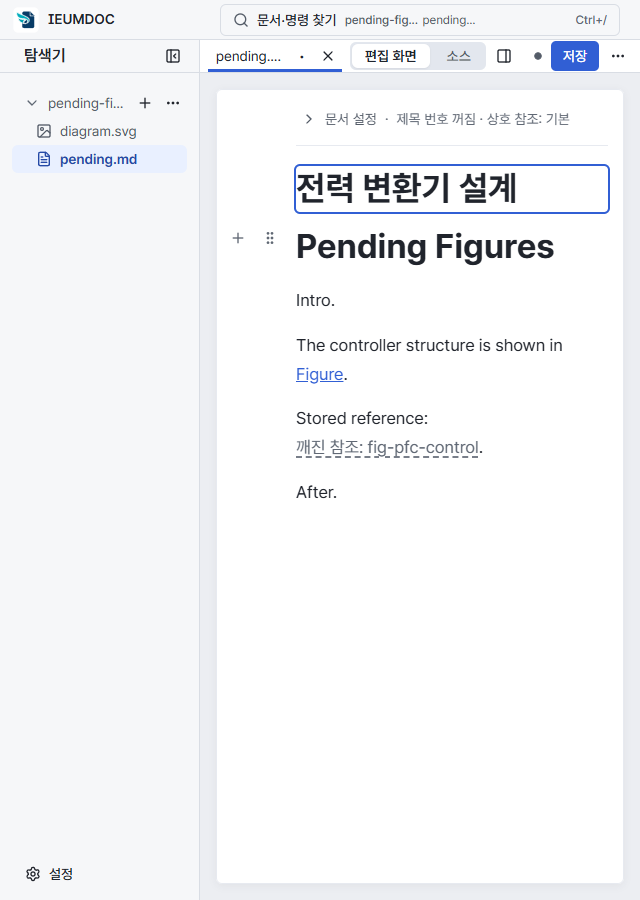
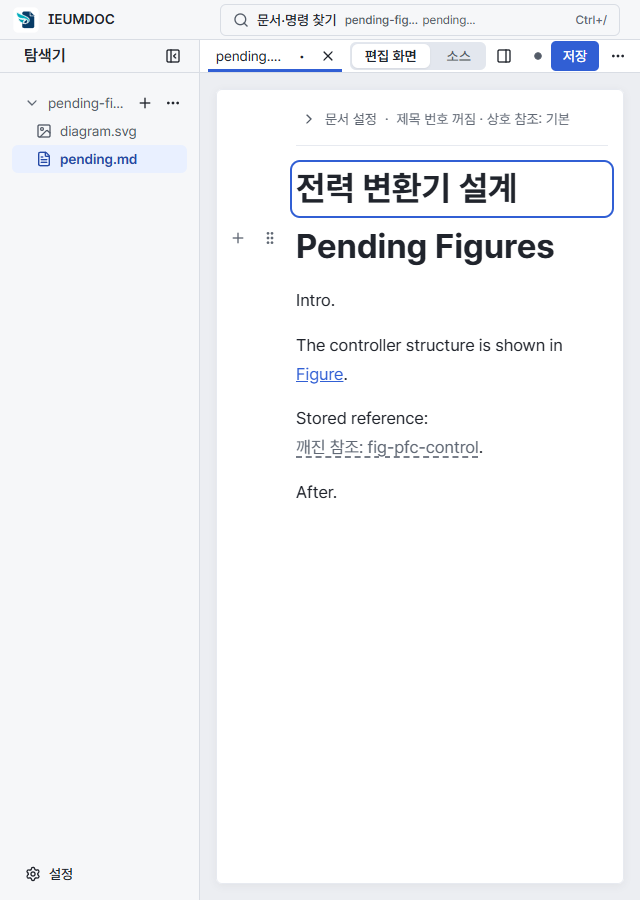
fix(editor): center the optional title hint within its slot
Keep the small hint centered in the existing title slot and offset the focus
outline to leave clearance around both empty hints and entered titles.
Assert hint alignment and unchanged field/body geometry across focus and input.
Refresh the nine affected After captures and their measurements.

AI-Agent: Codex
AI-Model: openai/gpt-6.1-sol

Changed region(s): [[0.4375, 0.1556, 0.9688, 0.2489]]

diff --git a/apps/editor/test/document-title.browser.js b/apps/editor/test/document-title.browser.js
@@ -36,6 +36,33 @@ async (page, { openPath, reloadDocument, expect, screenshots, waitForEditorFocus
     font:getComputedStyle(n).fontSize, placeholderFont:getComputedStyle(n,'::placeholder').fontSize }));
   const emptyStyle = await titleStyle();
   expect(parseFloat(emptyStyle.placeholderFont)).toBeLessThan(parseFloat(emptyStyle.font));
+  const titleGeometry = () => title.evaluate(n => {
+    const box = n.getBoundingClientRect(), style = getComputedStyle(n), hint = getComputedStyle(n,'::placeholder');
+    const h1 = n.closest('[data-document-tab]').querySelector('.document-editor h1').getBoundingClientRect();
+    const hintCenter = box.top + parseFloat(style.borderTopWidth) + parseFloat(style.paddingTop) + parseFloat(hint.lineHeight) / 2;
+    return {box:{x:box.x,y:box.y,width:box.width,height:box.height}, bodyTop:h1.top,
+      hintCenterOffset:hintCenter - (box.top + box.height / 2),
+      focusGap:parseFloat(style.outlineOffset) + parseFloat(style.paddingLeft)};
+  });
+  for (const width of [1440,640]) {
+    await page.setViewportSize({width,height:900});
+    await title.evaluate(n => n.blur());
+    const unfocused = await titleGeometry();
+    expect(Math.abs(unfocused.hintCenterOffset)).toBeLessThan(0.1);
+    await title.focus();
+    const focused = await titleGeometry();
+    expect(focused.box).toEqual(unfocused.box);
+    expect(focused.bodyTop).toBe(unfocused.bodyTop);
+    expect(focused.focusGap).toBeGreaterThan(0);
+    await title.fill('Title');
+    const typing = await titleGeometry();
+    expect(typing.box).toEqual(unfocused.box);
+    expect(typing.bodyTop).toBe(unfocused.bodyTop);
+    expect(typing.focusGap).toBeGreaterThan(0);
+    await title.fill('');
+    expect(Math.abs((await titleGeometry()).hintCenterOffset)).toBeLessThan(0.1);
+  }
+  await page.setViewportSize({width:1440,height:900});
   await title.fill('Optional document title');
   expect((await titleStyle()).height).toBe(emptyStyle.height);
   expect(await title.evaluate(n => n.matches(':placeholder-shown'))).toBe(false);

diff --git a/docs/design/assets/empty-entry-786/manual-capture.browser.js b/docs/design/assets/empty-entry-786/manual-capture.browser.js
@@ -23,7 +23,13 @@ async (page, { openPath, expect }) => {
       await page.evaluate(async () => { await document.fonts.ready; });
       await page.mouse.move(0,0);
       await page.screenshot({path:`docs/design/assets/empty-entry-786/${phase}-${width}-${theme}-${language}-${state}.png`,animations:'disabled'});
-      measurements.push({width,theme,language,state,...await title.evaluate(n => ({height:n.getBoundingClientRect().height,font:getComputedStyle(n).fontSize,placeholderFont:getComputedStyle(n,'::placeholder').fontSize}))});
+      measurements.push({width,theme,language,state,...await title.evaluate(n => {
+        const box = n.getBoundingClientRect(), style = getComputedStyle(n), hint = getComputedStyle(n,'::placeholder');
+        return {height:box.height,font:style.fontSize,placeholderFont:hint.fontSize,
+          placeholderLineHeight:hint.lineHeight,
+          hintCenterOffset:parseFloat(style.borderTopWidth) + parseFloat(style.paddingTop) + parseFloat(hint.lineHeight) / 2 - box.height / 2,
+          focused:n === document.activeElement,focusOutlineOffset:style.outlineOffset};
+      })});
     };
     await expect(title).toHaveValue('');
     await capture('empty-title');

diff --git a/apps/editor/src/styles.css b/apps/editor/src/styles.css
@@ -1329,13 +1329,21 @@ body:has(.ui-portal [role="menu"]) :is(.app-titlebar, .top-bar, .settings-topbar
   line-height: var(--line-height-document-heading);
   overflow-wrap: anywhere;
 }
+.document-title-input:placeholder-shown {
+  /* Keep the original slot despite different intrinsic rounding for the small hint. */
+  height: calc(var(--font-size-document-h1) * var(--line-height-document-heading));
+}
 .document-title-input::placeholder {
   color: var(--id-color-text-subtle);
   font-family: var(--font-family-sans);
   font-size: var(--font-size-sm);
   font-weight: 400;
+  line-height: calc(var(--font-size-document-h1) * var(--line-height-document-heading));
 }
-.document-title-input:focus-visible { outline: none; box-shadow: var(--focus-ring); }
+.document-title-input:focus-visible {
+  outline: 2px solid var(--id-color-border-focus);
+  outline-offset: var(--space-1);
+}
 
 .heading {
   margin: var(--space-document-heading-before) 0 var(--space-document-heading-after);

diff --git a/docs/design/figure-authoring-v1.md b/docs/design/figure-authoring-v1.md
@@ -266,6 +266,14 @@ evidence, separate from automated behavior assertions. The [manual capture scrip
 records these states through the repository runner; [metadata and SHA-256 hashes](assets/empty-entry-786/capture-metadata.json)
 identify the PNGs. Before UI is master `ceead74c`.
 
+After review, the small hint is vertically centered in the unchanged slot. Centering gives
+the optional UI prompt its own resting position rather than tying it to the much larger
+title baseline. Focus uses a `--space-1` outward outline offset around both hint and entered
+title; it adds visible clearance without changing text alignment or layout. The title browser
+regression compares hint/slot centers and exact field/body geometry before focus, after focus,
+while typing and after clearing at 1440px and 640px. Only the nine affected After captures
+were refreshed; the original Before captures remain unchanged.
+
 | View | Before: empty / typing / Figure | After: empty / typing / Figure |
 | --- | --- | --- |
 | 1440 Light EN | [Empty](assets/empty-entry-786/before-1440-light-en-empty-title.png) · [Typing](assets/empty-entry-786/before-1440-light-en-typing-title.png) · [Figure](assets/empty-entry-786/before-1440-light-en-pending-figure.png) | [Empty](assets/empty-entry-786/after-1440-light-en-empty-title.png) · [Typing](assets/empty-entry-786/after-1440-light-en-typing-title.png) · [Figure](assets/empty-entry-786/after-1440-light-en-pending-figure.png) |

diff --git a/docs/design/document-editing-v1.md b/docs/design/document-editing-v1.md
@@ -436,9 +436,11 @@ dry-run and `apply-batch` (`text` or `remove: true`). `inspect` displays the tit
 separately from body nodes (JSON `title: null` means absent).
 
 Editor keeps the title input above the body, preserving its one-line title slot height
-when empty (#786). The empty placeholder is small UI text: `Add a title (optional)` /
+when empty (#786). The empty placeholder is vertically centered small UI text: `Add a title (optional)` /
 `제목 추가(선택)`. Input uses the document font/H1 size immediately; clearing it restores
-the small hint. Both are plain text only. Its value is a
+the small hint. The focus outline sits outside the slot with the existing spacing token,
+leaving visible room around both hint and title without moving the input or body. Both are
+plain text only. Its value is a
 ProseMirror document attribute in the same state/history as body edits. It does
 not create an editor body block or snapshot path, and does not appear in
 Outline. Ctrl+Z/Ctrl+Y/Ctrl+Shift+Z use engine history while the input is focused.

diff --git a/docs/design/editor-visual-language-v1.md b/docs/design/editor-visual-language-v1.md
@@ -76,7 +76,7 @@ Pretendard `1.3.9` is bundled through its official variable dynamic-subset CSS; 
 | --- | --- |
 | Body, including callout prose | 17/28.9px, 400, document stack |
 | H1–H6 | 34/45.9, 24/32.4, 20/27, 18/24.3, 16/21.6, 14/18.9px, document stack, 700 |
-| Frontmatter title | H1 type while typing; empty `Add a title (optional)` / `제목 추가(선택)` uses subtle 14px normal UI type within the same title slot; no box at rest (#786) |
+| Frontmatter title | H1 type while typing; empty `Add a title (optional)` / `제목 추가(선택)` uses subtle 14px normal UI type centered vertically within the same title slot; outward focus outline leaves breathing room without changing layout; no box at rest (#786) |
 | UI labels/controls and Figure/Table captions | 14/20px, UI stack |
 | Metadata/status/helpers | 12/16px, UI stack |
 | Dialog title / start or Settings title | 16px semibold / 24px semibold UI type |

diff --git a/docs/design/editor-layout-rules-v1.md b/docs/design/editor-layout-rules-v1.md
@@ -41,6 +41,12 @@ Role: alignment, spacing, control dimensions and deliberate geometry exceptions;
 
 ## Alignment and ownership
 
+- Frontmatter title (#786) keeps the existing H1-line-height minimum slot. The small empty
+  hint's line box matches that slot and centers vertically; empty-state height is explicit
+  to prevent a fractional intrinsic-size shift when typing begins. The title focus outline
+  uses `--space-1` outward offset for visible inner clearance without adding padding,
+  resizing the field or moving the following body. This also applies to entered titles.
+
 - Editor groups (#488 phase 1) use equal fixed columns with a 1px structural divider.
   Each needs 440px, the existing 640px supported viewport less the 200px narrow Explorer.
   Available document area must therefore reach 881px before splitting. A narrower
